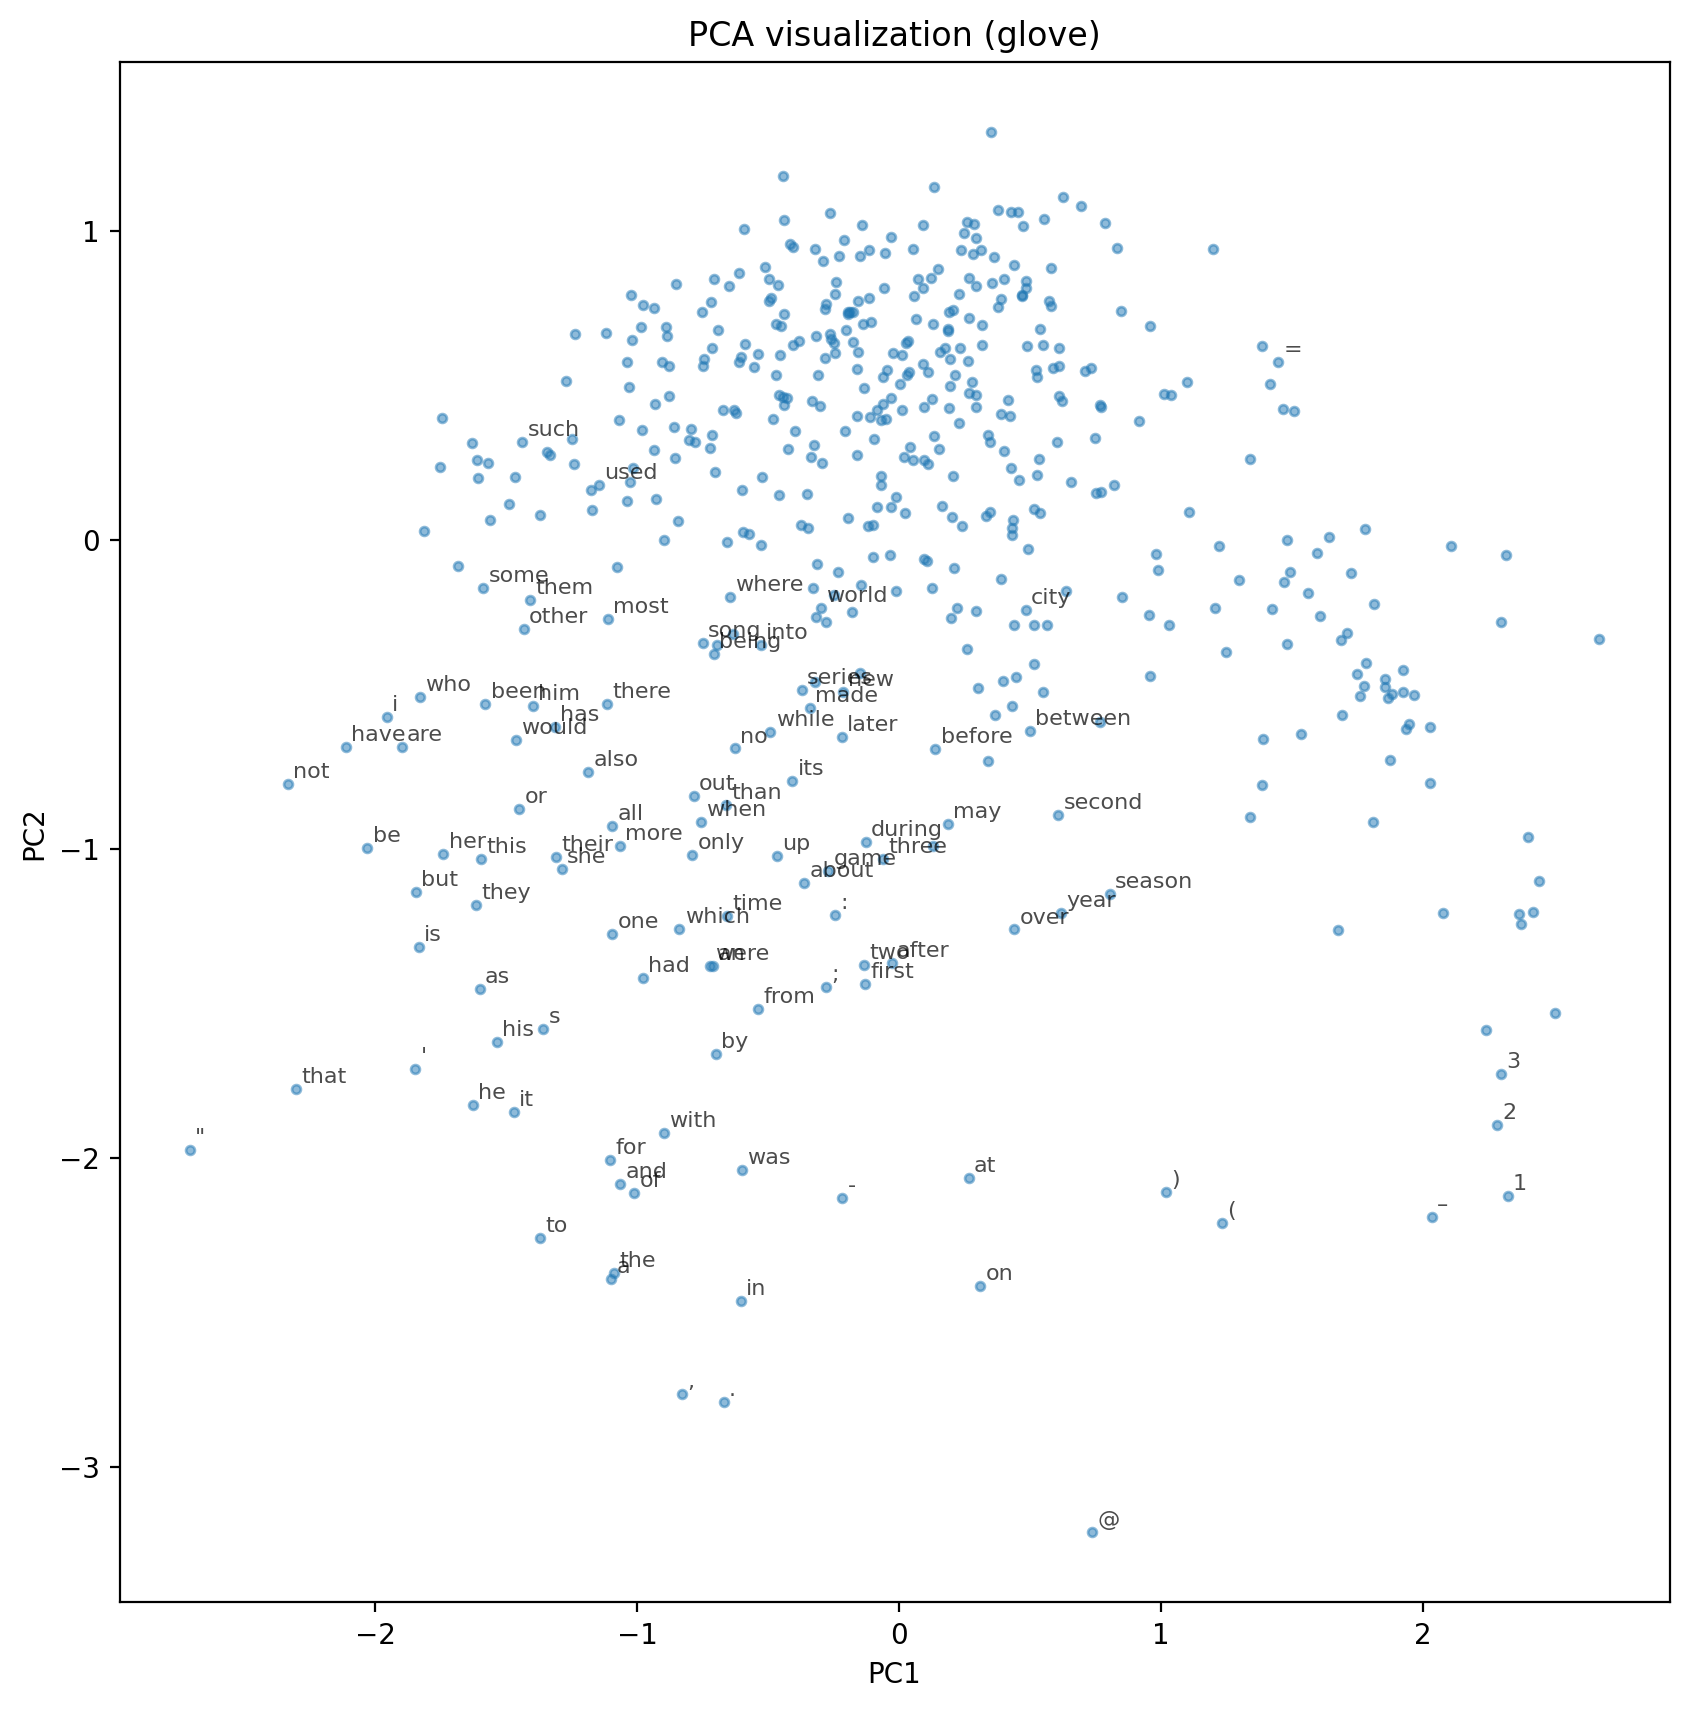
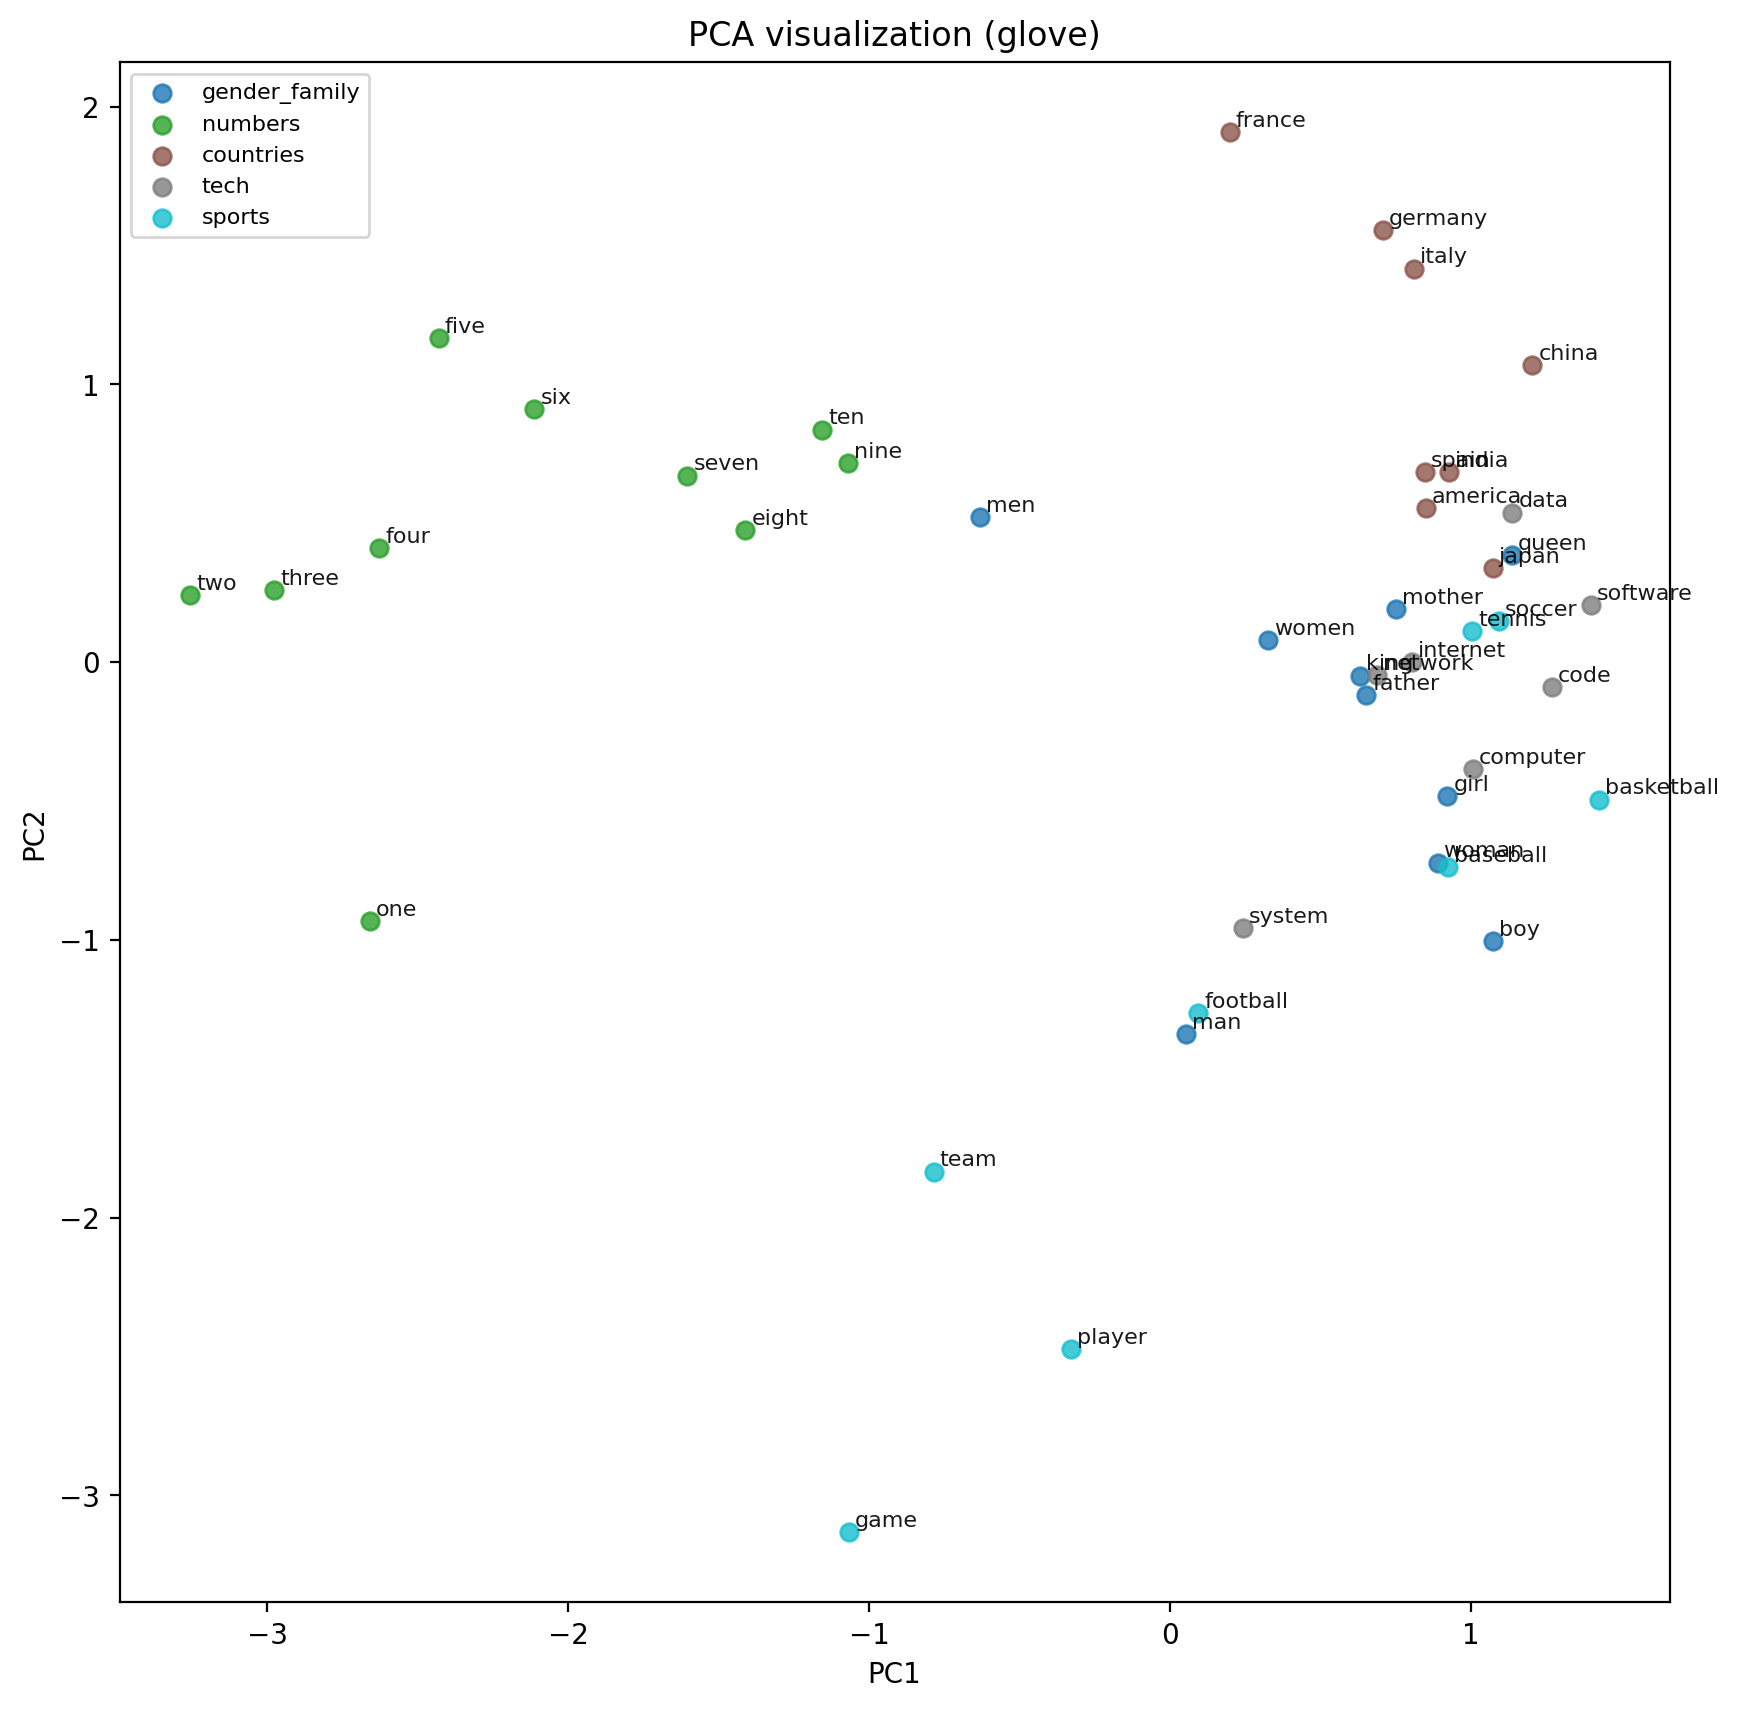
make vis more readble

diff --git a/src/evaluate_visualization.py b/src/evaluate_visualization.py
@@ -1,6 +1,7 @@
 import json
 import os
 from pathlib import Path
+from typing import Dict, List
 
 import hydra
 import numpy as np
@@ -22,6 +23,65 @@ def load_embeddings(checkpoint_dir: str, model_name: str):
     return embeddings, idx2word, word2idx
 
 
+def build_toy_clusters() -> Dict[str, List[str]]:
+    return {
+        "gender_family": [
+            "man",
+            "woman",
+            "men",
+            "women",
+            "boy",
+            "girl",
+            "king",
+            "queen",
+            "father",
+            "mother",
+        ],
+        "numbers": [
+            "one",
+            "two",
+            "three",
+            "four",
+            "five",
+            "six",
+            "seven",
+            "eight",
+            "nine",
+            "ten"
+        ],
+        "countries": [
+            "france",
+            "germany",
+            "spain",
+            "italy",
+            "china",
+            "japan",
+            "india",
+            "america",
+        ],
+        "tech": [
+            "computer",
+            "software",
+            "internet",
+            "data",
+            "network",
+            "code",
+            "server",
+            "system",
+        ],
+        "sports": [
+            "football",
+            "soccer",
+            "basketball",
+            "baseball",
+            "tennis",
+            "team",
+            "game",
+            "player",
+        ],
+    }
+
+
 @hydra.main(config_path="../configs", config_name="config", version_base=None)
 def main(cfg: DictConfig):
     print(OmegaConf.to_yaml(cfg))
@@ -33,32 +93,53 @@ def main(cfg: DictConfig):
         cfg.paths.checkpoint_dir, cfg.model.name
     )
 
-    V, D = embeddings.shape
-    n = min(int(cfg.evaluation.pca_num_words), V)
-    # Skip index 0 (<unk>), take the next n words
-    indices = np.arange(1, n)
+    toy_clusters = build_toy_clusters()
+    cluster_words: Dict[str, List[str]] = {}
+    ordered_words: List[str] = []
+    for cluster_name, words in toy_clusters.items():
+        kept = [w for w in words if w in word2idx]
+        if len(kept) >= 2:
+            cluster_words[cluster_name] = kept
+            ordered_words.extend(kept)
+
+    if not ordered_words:
+        raise ValueError("No toy words from predefined clusters were found in the model vocab.")
+
+    indices = np.array([word2idx[w] for w in ordered_words], dtype=np.int64)
     emb_sub = embeddings[indices]
+    D = embeddings.shape[1]
 
     print(f"Running PCA on {emb_sub.shape[0]} words, dim={D} -> 2D...")
     pca = PCA(n_components=2)
     emb_2d = pca.fit_transform(emb_sub)
 
     plt.figure(figsize=(10, 10))
-    plt.scatter(emb_2d[:, 0], emb_2d[:, 1], alpha=0.5, s=10)
+    colors = plt.cm.tab10(np.linspace(0, 1, max(1, len(cluster_words))))
 
-    # optionally label a small subset
-    for i, idx in enumerate(indices[:100]):  # label first 100
-        word = idx2word[idx]
-        x, y = emb_2d[i]
-        plt.text(x + 0.02, y + 0.02, word, fontsize=8, alpha=0.7)
+    offset = 0
+    for color_i, (cluster_name, words) in enumerate(cluster_words.items()):
+        size = len(words)
+        xs = emb_2d[offset : offset + size, 0]
+        ys = emb_2d[offset : offset + size, 1]
+        plt.scatter(xs, ys, alpha=0.8, s=40, color=colors[color_i], label=cluster_name)
+
+        for j, word in enumerate(words):
+            plt.text(xs[j] + 0.02, ys[j] + 0.02, word, fontsize=8, alpha=0.9)
+        offset += size
 
     plt.title(f"PCA visualization ({cfg.model.name})")
     plt.xlabel("PC1")
     plt.ylabel("PC2")
+    plt.legend(loc="best", fontsize=8)
     out_path = Path(cfg.paths.assets_dir) / f"pca_{cfg.model.name}.png"
     plt.savefig(out_path, dpi=200, bbox_inches="tight")
     plt.close()
     print(f"Saved PCA plot to {out_path}")
+
+    words_out_path = Path(cfg.paths.assets_dir) / f"pca_clusters_{cfg.model.name}.json"
+    with words_out_path.open("w", encoding="utf-8") as f:
+        json.dump(cluster_words, f, indent=2)
+    print(f"Saved plotted toy clusters to {words_out_path}")
 
 
 if __name__ == "__main__":

diff --git a/README.md b/README.md
@@ -133,7 +133,7 @@ While this approach makes SGNS highly efficient, it may also limit the amount of
 
 The PCA visualizations of the embedding spaces are shown on the image above. (left for GloVe and right for SGNS)
 
-The GloVe visualization shows a relatively well distributed embedding space, where words form several small clusters representing semantic categories. This indicates that the model has learned more less meaningful global structure. In contrast, the SGNS visualization shows a denser central cluster, suggesting that many word vectors are concentrated near the origin of the embedding space. This may indicate weaker separation between semantic groups (which is makes sense because model wasn't trained for a longer time). As an example, in both cases we can see that digits like 1,2,3 are clustered together, same happens with punctuation marks like "." and ",". This indicated that our models learn meaningfull embeding space, and therefore on larger corpus and with higher amount of training steps we can obtain usable embedding space.
+The GloVe visualization shows a relatively well distributed embedding space, where words form several small clusters representing semantic categories (numbers, contries). This indicates that the model has learned more less meaningful global structure. The SGNS visualization shows a bit better clusters, suggesting that it learns new embedding space more efficiently with its objective. As an example, in both cases we can see that digits like 1,2,3 are clustered together, same happens with countries. This indicated that our models learn meaningfull embeding space, and therefore on larger corpus and with higher amount of training steps we can obtain highly usable embedding space.
 
 
 ## Project Overview
